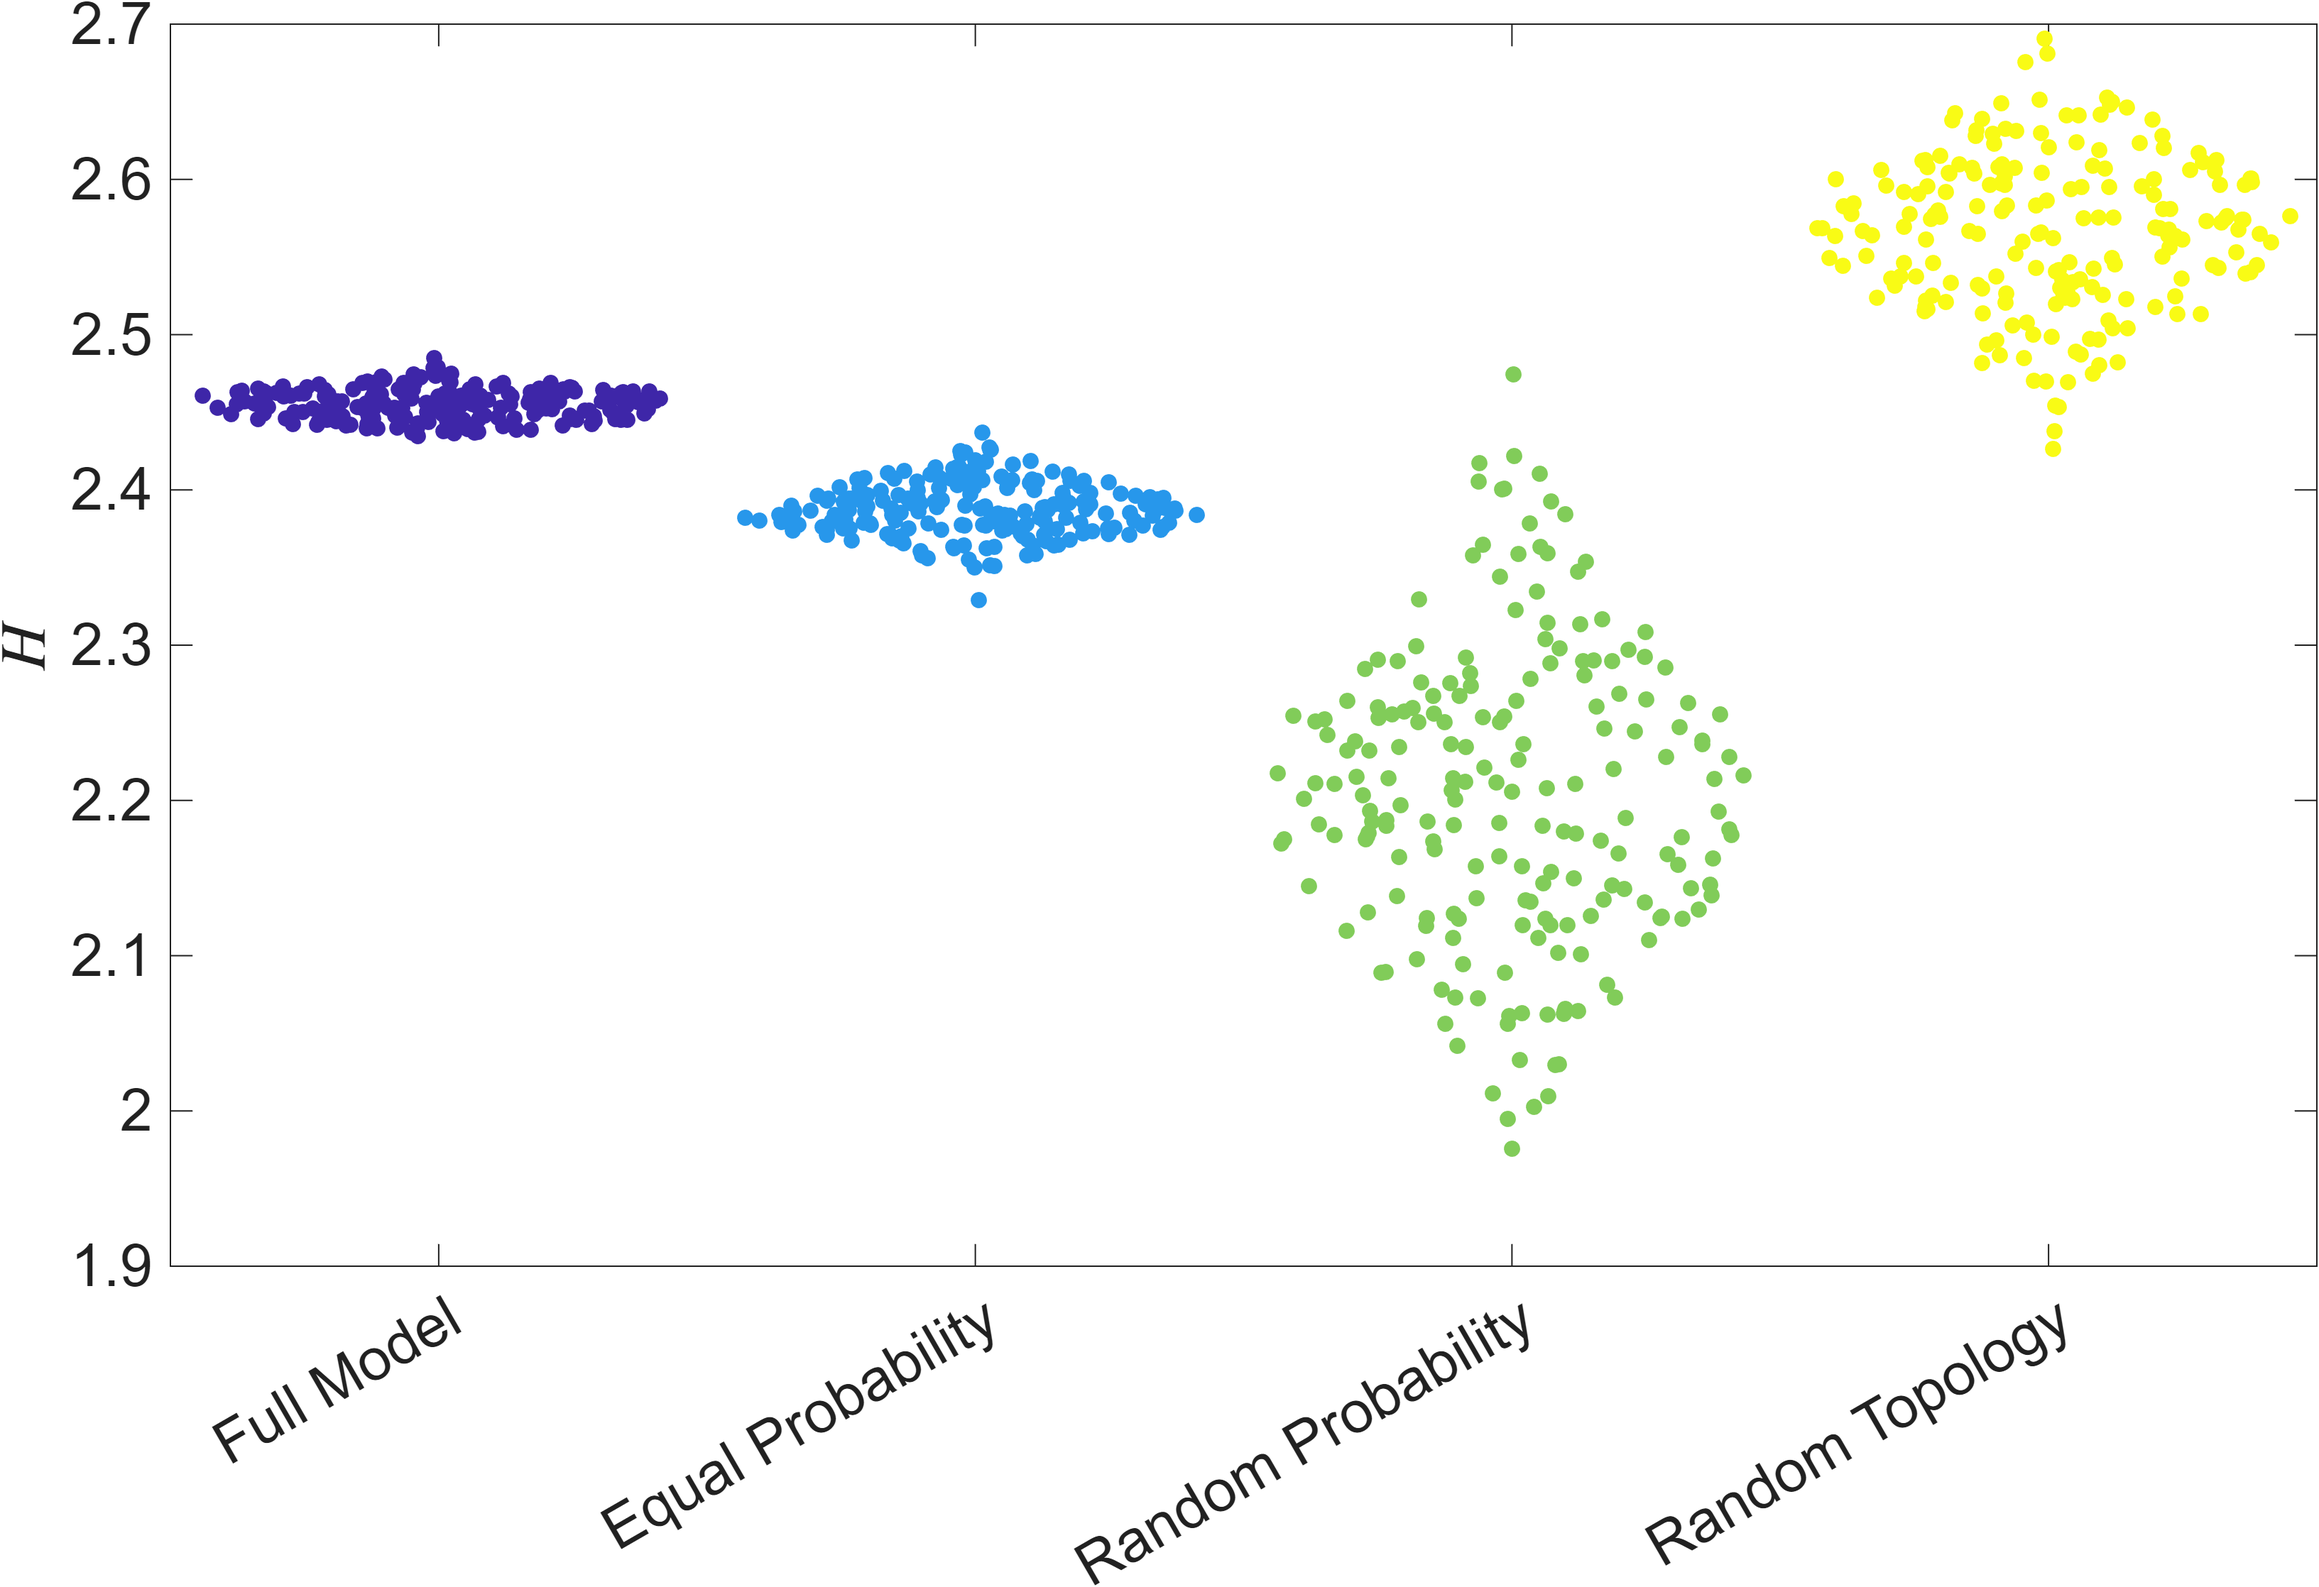
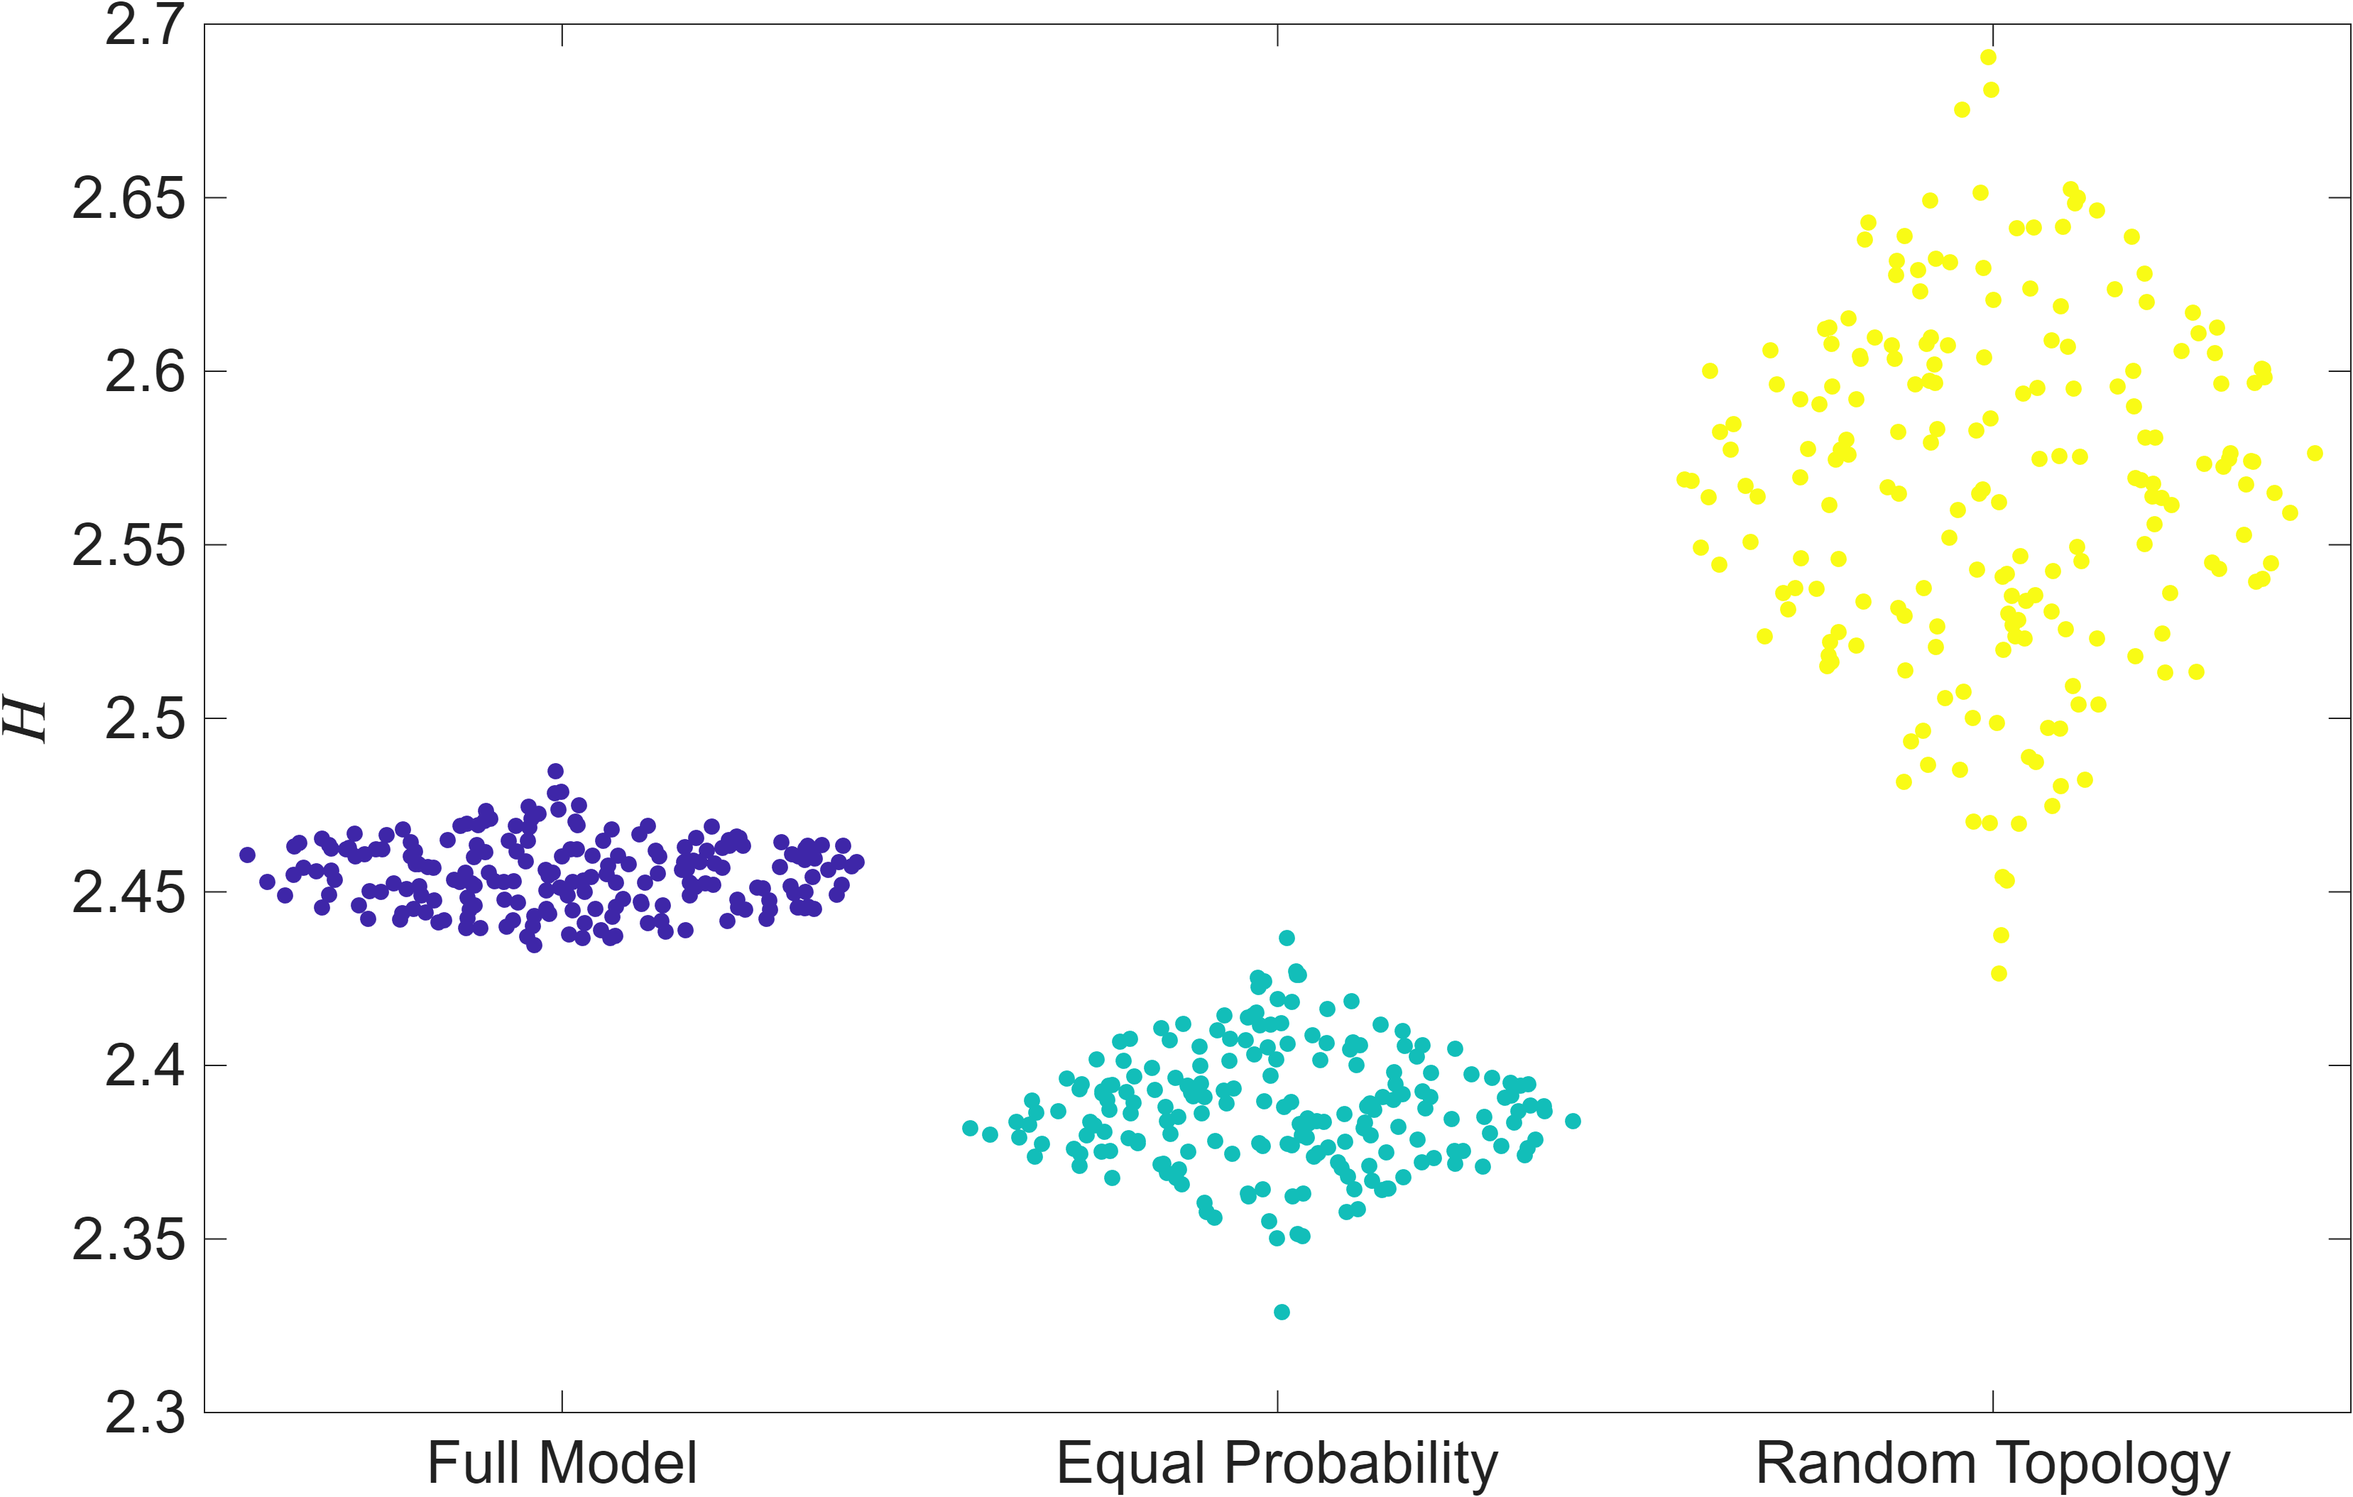
final final changes

diff --git a/analysis/shannon_entropy.m b/analysis/shannon_entropy.m
@@ -124,6 +124,30 @@ se_rt = se{3};
 % yellow and stays distinguishable for any count.
 modelColors = @(n) parula(n);
 
+%% Does model type affect entropy? One-way ANOVA with Tukey post-hoc
+% These are the statistics quoted in the caption of the entropy figure. They
+% are computed here so that they update whenever the underlying data changes.
+anovaY = [se_fm; se_ep; se_rt];
+anovaGroup = [repmat(modelLabels(1), nIterations, 1); ...
+              repmat(modelLabels(2), nIterations, 1); ...
+              repmat(modelLabels(3), nIterations, 1)];
+
+[pModel, anovaTbl, anovaStats] = anova1(anovaY, anovaGroup, 'off');
+tukey = multcompare(anovaStats, 'CType', 'tukey-kramer', 'Display', 'off');
+
+Fstat  = anovaTbl{2,5};
+dfModel = anovaTbl{2,3};
+dfError = anovaTbl{3,3};
+
+fprintf('\nOne-way ANOVA, effect of model on block entropy:\n');
+fprintf('  F(%d,%d) = %.4g, p = %.3g\n', dfModel, dfError, Fstat, pModel);
+
+fprintf('Tukey-Kramer post-hoc comparisons:\n');
+for r = 1:size(tukey,1)
+    fprintf('  %-20s vs %-20s p = %.3g\n', ...
+        modelLabels(tukey(r,1)), modelLabels(tukey(r,2)), tukey(r,6));
+end
+
 %% Mean pattern-string distribution per model
 % One curve per model, averaged over its 200 iterations. The x axis indexes
 % the 144 ordered pattern pairs in T; a flatter curve spreads probability over
